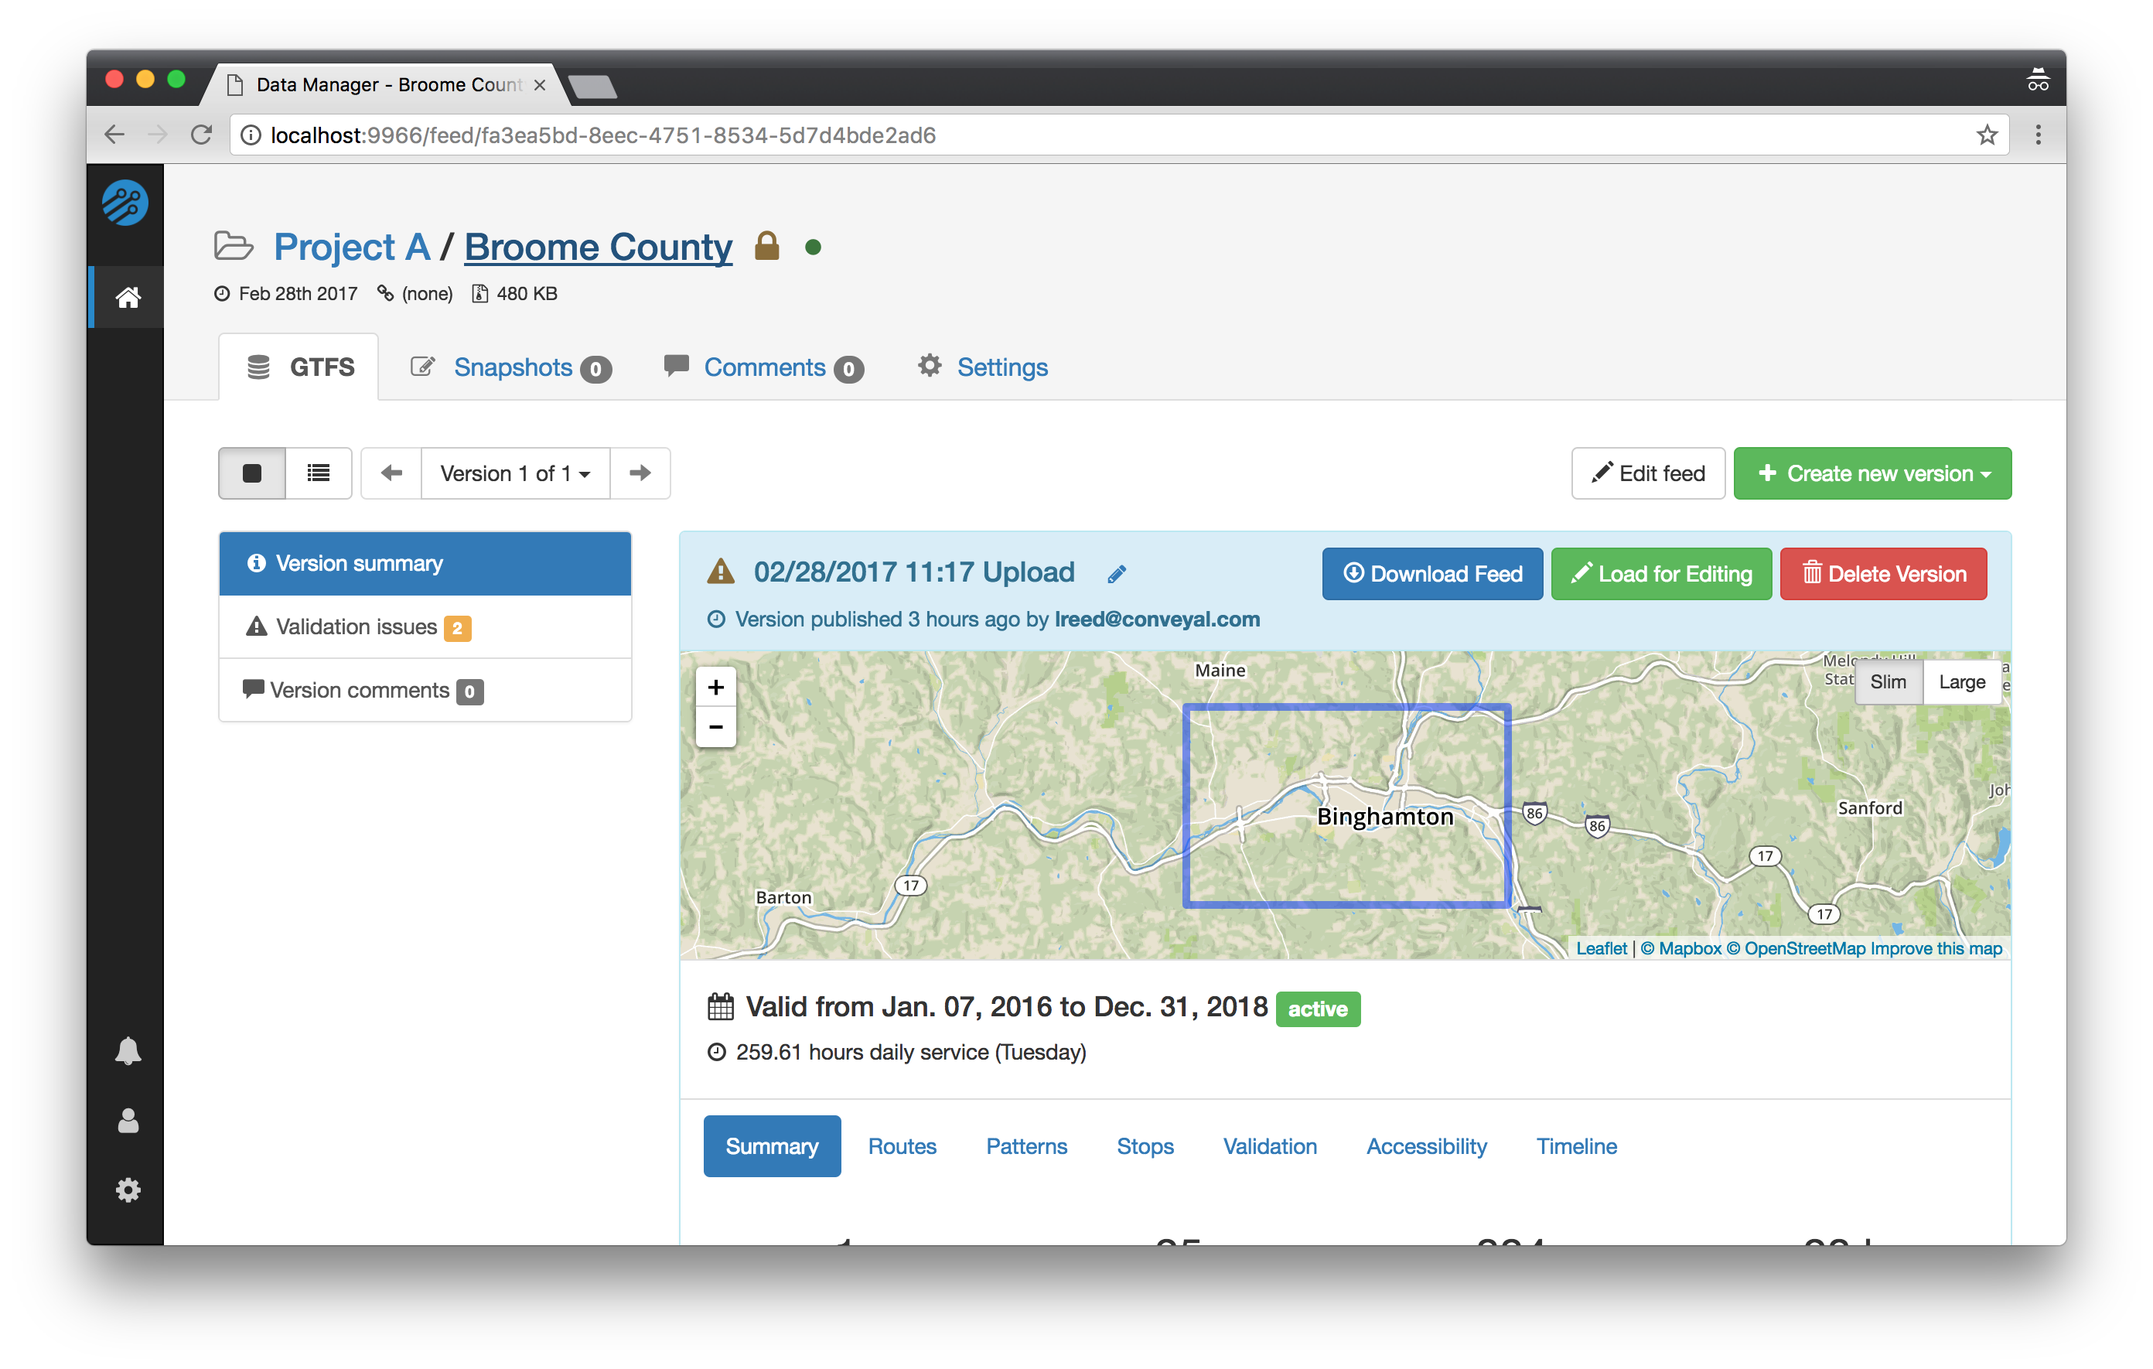
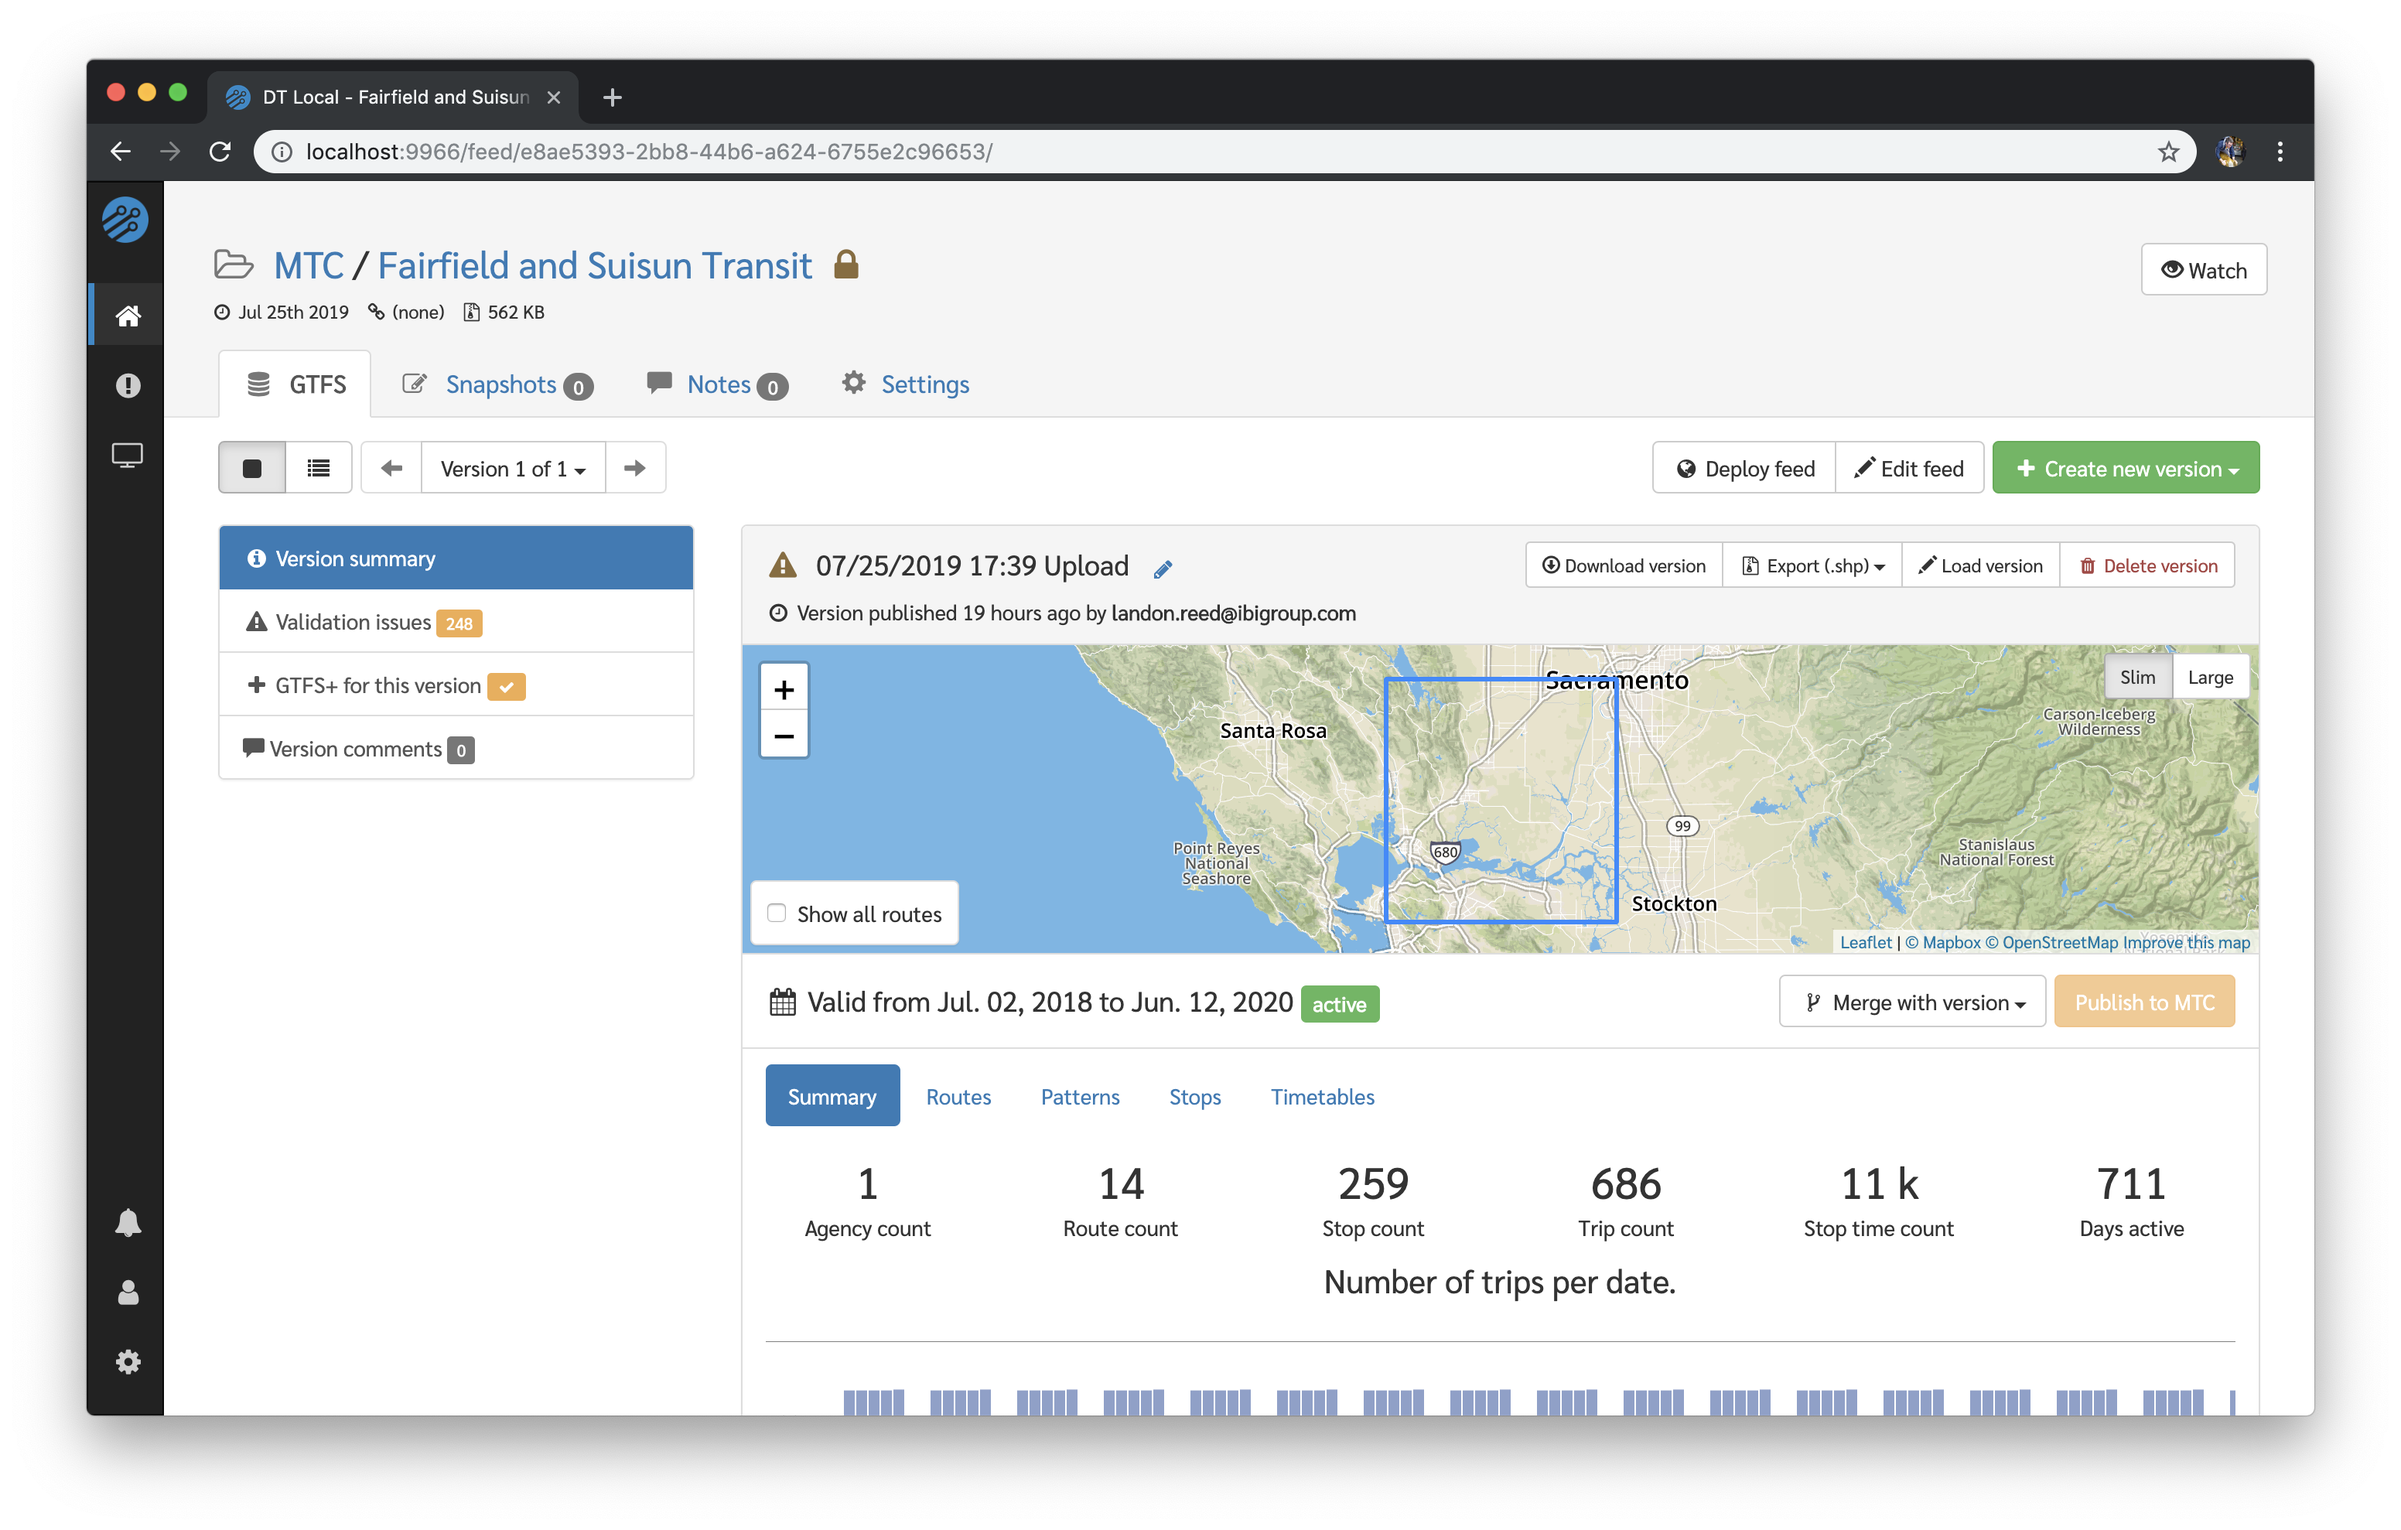
docs(general): update some screenshots/text

diff --git a/docs/user/managing-projects-feeds.md b/docs/user/managing-projects-feeds.md
@@ -63,6 +63,9 @@ Feed Versions are created from the main Feed Source profile page. There are thre
 The Feed Version navigator allows you to navigate through all available versions of a given feed using the `←` and `→` buttons (or view a list of all versions). You can also use this interface to:
 
 - download a Feed Version to your local machine as a GTFS data file,
+- export the route patterns or stops as a shapefile (.shp),
+- merge two Feed Versions into a single version (MTC only),
+- publish a Feed Version externally (MTC only),
 - load a version into the Editor, and
 - delete a Feed Version from the Data Manager. (Note: deleting a Feed Version cannot be undone.)
 

diff --git a/docs/user/feed-version-summary.md b/docs/user/feed-version-summary.md
@@ -5,6 +5,9 @@
 The Feed Version navigator allows you to navigate through all available versions of a given feed using the `←` and `→` buttons (or view a list of all versions). You can also use this interface to:
 
 - download a Feed Version to your local machine as a GTFS data file,
+- export the route patterns or stops as a shapefile (.shp),
+- merge two Feed Versions into a single version (MTC only),
+- publish a Feed Version externally (MTC only),
 - load a version into the Editor, and
 - delete a Feed Version from the Data Manager. (Note: deleting a Feed Version cannot be undone.)
 
